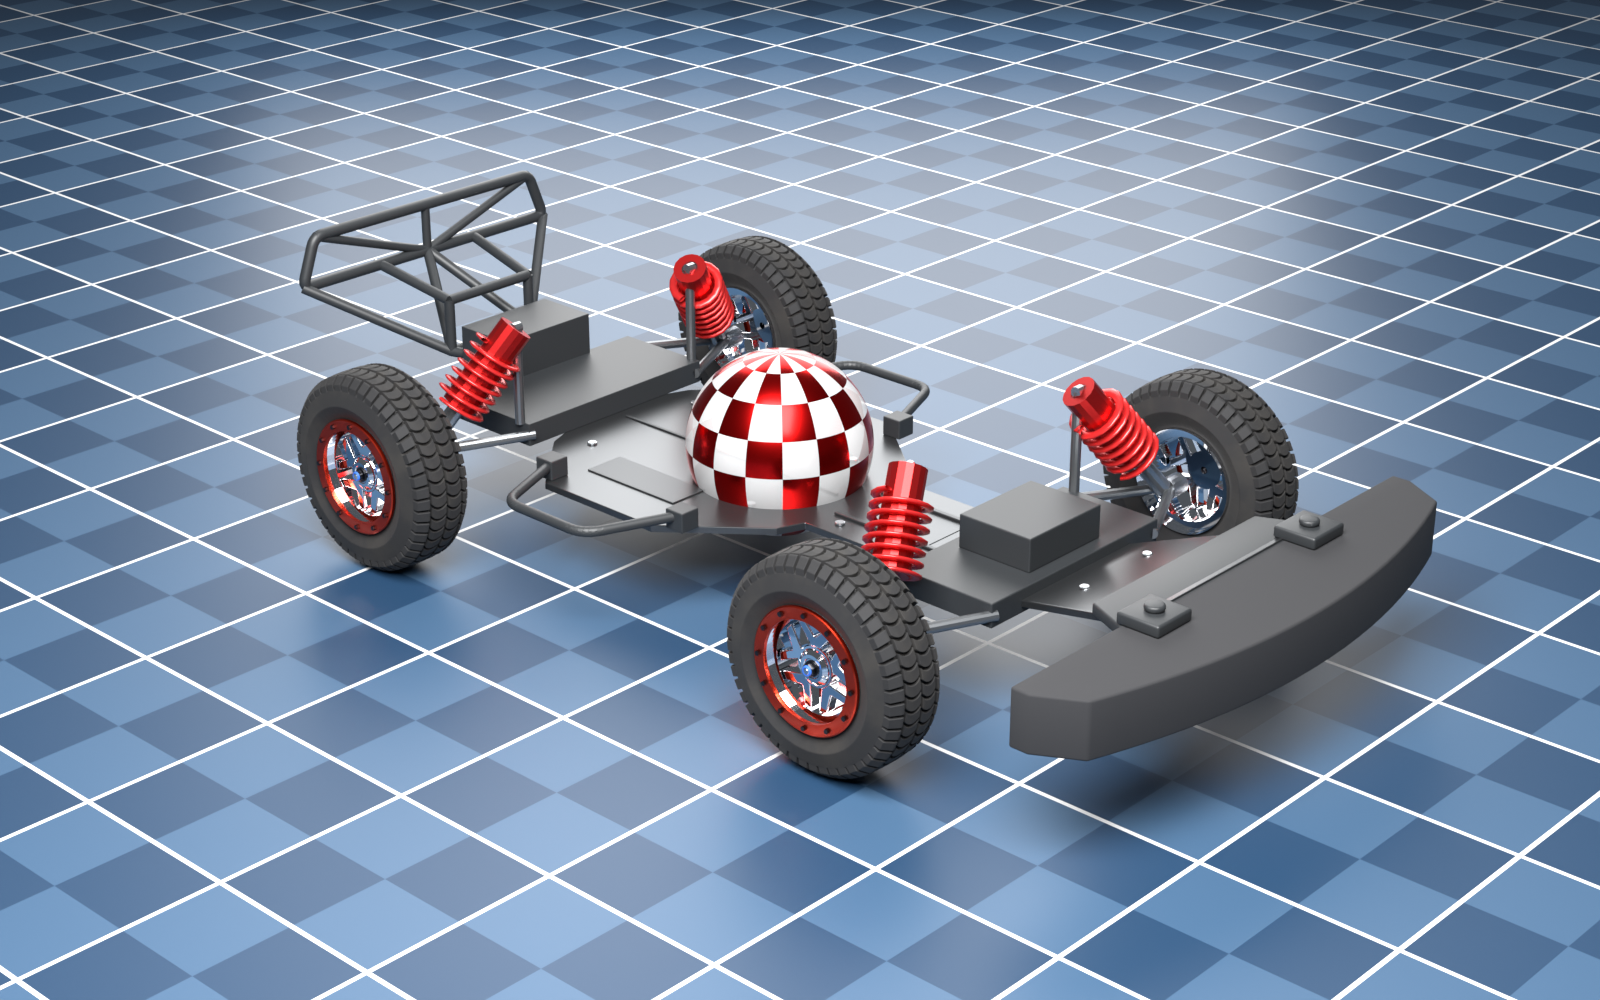
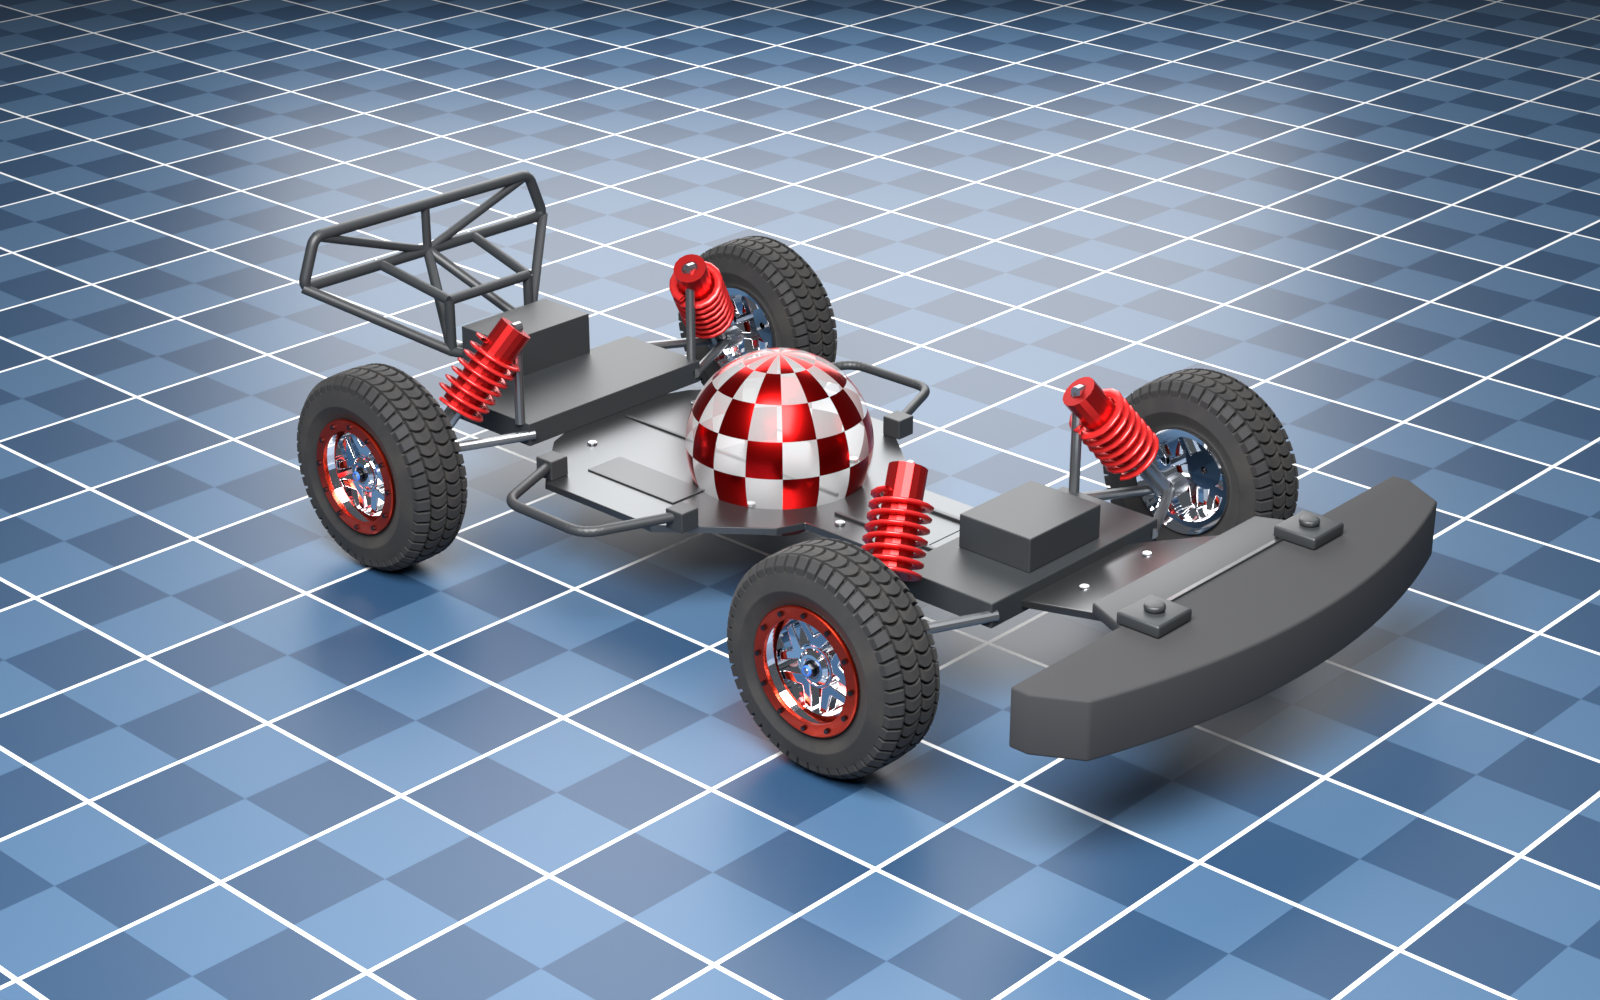
feat(assembly): reduce marker gray opacity to 25 percent
- reduce gray opacity from 50 to 25 percent in the source and regenerated exports
- preserve marker placement, checker assignments and opaque red material
- refresh car references and document the new opacity

Changed region(s): [[0.4062, 0.341, 0.5625, 0.527]]

diff --git a/README.md b/README.md
@@ -21,7 +21,7 @@ All models use metres, with +Z up.
 - Wheel centres sit at y = ±0.145 (**track 0.290 m**), 0.055 m above the ground.
 - In the car the wheels are rotated about Z: +90° on the left side, −90° on the right, so the hubs face outwards.
 - The rear bumper has one shallow face, three lower support triangles and two screw-mounted braces to a raised crossbar. Its top corner span is approximately 0.162 m, estimated from reference photos using the 0.186 m chassis plate width, rather than measured from the physical part.
-- The center-of-mass marker is a separate linked part, centred at (0.15532, 0, 0.01434) m relative to the rear-wheel midpoint, or 0.06934 m above the ground. Its 16 × 8 checkerboard uses two face-assigned materials, preserving the red/light-gray pattern in USD/DAE without texture files. Light-gray squares are 50% opaque and non-metallic, with IOR 1 to avoid refraction and better match DAE's diffuse transparency in USD/Omniverse. Red squares remain fully opaque and metallic in Blender/USD; DAE uses diffuse materials. Lighting, tone mapping and transparency support can still differ by viewer.
+- The center-of-mass marker is a separate linked part, centred at (0.15532, 0, 0.01434) m relative to the rear-wheel midpoint, or 0.06934 m above the ground. Its 16 × 8 checkerboard uses two face-assigned materials, preserving the red/light-gray pattern in USD/DAE without texture files. Light-gray squares are 25% opaque and non-metallic, with IOR 1 to avoid refraction and better match DAE's diffuse transparency in USD/Omniverse. Red squares remain fully opaque and metallic in Blender/USD; DAE uses diffuse materials. Lighting, tone mapping and transparency support can still differ by viewer.
 
 ## Gallery
 

diff --git a/AGENTS.md b/AGENTS.md
@@ -105,7 +105,7 @@ The script runs two steps:
 
 The center-of-mass marker uses two face-assigned materials so its checkerboard survives USD/DAE export without texture files. Preserve those assignments when editing the sphere.
 
-Light-gray marker squares are 50% opaque, non-metallic and non-refractive (IOR 1) to better match DAE's diffuse transparency in USD/Omniverse; red squares remain fully opaque and metallic in Blender/USD. Keep the Principled Alpha and material display alpha consistent. `tools/export_usd.py` temporarily compensates for Blender 5.3 overwriting constant alpha with its transmission mapping; it restores the shader after export and never saves the source.
+Light-gray marker squares are 25% opaque, non-metallic and non-refractive (IOR 1) to better match DAE's diffuse transparency in USD/Omniverse; red squares remain fully opaque and metallic in Blender/USD. Keep the Principled Alpha and material display alpha consistent. `tools/export_usd.py` temporarily compensates for Blender 5.3 overwriting constant alpha with its transmission mapping; it restores the shader after export and never saves the source.
 
 **Check the result:** `git status` should show changes only in `usd/` and `dae/`. Expected sizes, measured over the mesh points (min → max, metres):
 
